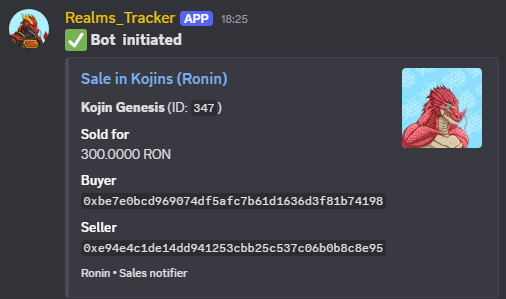
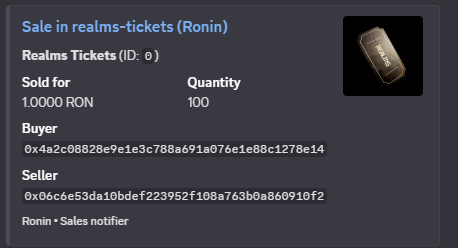
tickets and embed added

Changed region(s): [[0.0, 0.0282, 0.7642, 0.9879], [0.7336, 0.0565, 0.9782, 0.5081]]

diff --git a/sales_listener.py b/sales_listener.py
@@ -44,6 +44,27 @@ async def notify_sale(channel: discord.abc.Messageable, sale: dict, collection_n
     buyer = sale.get("matcher", sale.get("buyer", "¿?"))
     seller = sale.get("maker", sale.get("seller", "¿?"))
     tx_hash = sale.get("txHash")
+    assets = sale.get("assets", [])
+    quantity = 1
+    if assets:
+        token = assets[0].get("token", {})
+        typename = token.get("__typename", "")
+    if typename == "Erc1155":
+        quantity = int(assets[0].get("quantity", 1))
+
+    # Precio total (realPrice ya viene en WEI o base units)
+    if market == "ronin":
+        total_price = int(sale.get("realPrice", 0))
+        unit_price = total_price // quantity if quantity > 0 else total_price
+        price_total_str = _format_price_ron(total_price)   # ejemplo: "55.0000 RON"
+        price_unit_str = _format_price_ron(unit_price)     # ejemplo: "0.5500 RON"
+    else:
+        total_price = int(sale.get("price", 0))
+        unit_price = total_price // quantity if quantity > 0 else total_price
+        price_total_str = _format_price_eth(total_price)
+        price_unit_str = _format_price_eth(unit_price)
+
+
 
     # URL: Transacción en vez de NFT
     if market == "ronin" and tx_hash:
@@ -58,9 +79,17 @@ async def notify_sale(channel: discord.abc.Messageable, sale: dict, collection_n
         description=f"**{name}** (ID: `{token_id}`)",
         url=url
     )
-    embed.add_field(name="Sold for", value=price_str, inline=True)
+
+    if quantity > 1:
+        embed.add_field(name="Sold for", value=f"{quantity} × {price_unit_str} = {price_total_str}", inline=True)
+    else:
+        embed.add_field(name="Sold for", value=price_total_str, inline=True)
+
+    embed.add_field(name="Quantity", value=str(quantity), inline=True)
     embed.add_field(name="Buyer", value=f"`{buyer}`", inline=False)
     embed.add_field(name="Seller", value=f"`{seller}`", inline=False)
+
+   
 
     if image:
         embed.set_thumbnail(url=image)

diff --git a/bot.py b/bot.py
@@ -50,13 +50,12 @@ COLLECTIONS = [
         "last_timestamp": 0
     },
 
-    # Ronin colección ROLG
-    #{
-     #   "name": os.getenv("COLLECTION_NAME", "rolg-nft"),
-      #  "contract": os.getenv("CONTRACT_ADDRESS_ROLG"),
-       # "market": "ronin",
-        #"last_timestamp": 0
-    #}
+    {
+        "name": os.getenv("COLLECTION_NAME"),
+        "contract": os.getenv("CONTRACT_ADDRESS_TICKETS"),
+        "market": "ronin",
+        "last_timestamp": 0
+    }
 ]
 
 

diff --git a/query.py b/query.py
@@ -20,6 +20,7 @@ async def fetch_recent_sales(session, api_url, api_key, contract_address, size=1
                 image
               }
             }
+            quantity
           }
           maker
           matcher

diff --git a/README.md b/README.md
@@ -5,7 +5,7 @@ A Python-based bot for tracking **NFT sales and events** in the Realms ecosystem
 ---
 
 
-![Realms Tracker logo](images/image.png)
+![Realms Tracker logo](images/image.png) !(images/image2.png)
 
 ## 📌 Project Overview
 
